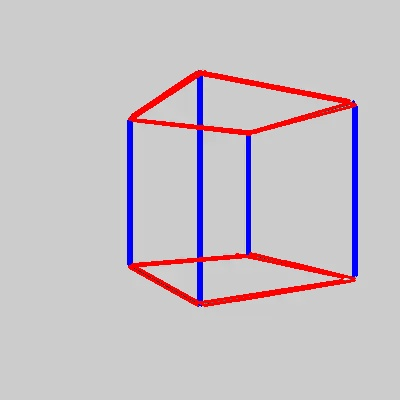
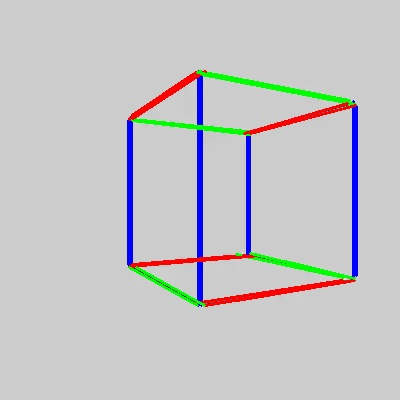
switch direction - read 1 paragrapgh of the paper carefully

diff --git a/kuribayashi2019.py b/kuribayashi2019.py
@@ -24,37 +24,29 @@ cv2.imwrite('3_gaussian_blur.jpg', gray)
 edges_img = cv2.Canny(gray, 50, 150, apertureSize=3)
 cv2.imwrite('4_edges_detected.jpg', edges_img)
 
+# Detect lines using Hough Transform
 lines = cv2.HoughLinesP(edges_img, 1, np.pi / 180, threshold=20, minLineLength=30, maxLineGap=10)
 
-# Define a function to calculate the angle of a line segment
 def line_angle(line):
     x1, y1, x2, y2 = line[0]
-    return np.arctan2(y2 - y1, x2 - x1) * 180.0 / np.pi
+    angle = np.arctan2(y2 - y1, x2 - x1) * 180 / np.pi
+    return angle
+# Calculate the angle of each line segment
+angles = np.array([line_angle(line) for line in lines])
 
-# Cluster lines based on the angle
-if lines is not None:
-    angles = np.array([line_angle(line) for line in lines]).reshape(-1, 1)
-    # Hierarchical clustering
-    clustering = AgglomerativeClustering(n_clusters=2)
-    print("here")
-    labels = clustering.fit_predict(angles)
+# Normalize angles to [0, 180) degrees to treat opposite directions the same
+normalized_angles = np.abs(angles) % 180
 
-    colors = [(0, 0, 255), (255, 0, 0)]  # Red and Blue
+# Cluster based on normalized angles
+clustering = AgglomerativeClustering(n_clusters=3)  # Assuming 3 main directions: width, height, depth
+labels = clustering.fit_predict(normalized_angles.reshape(-1, 1))
 
-    # Draw lines on the image with color based on their cluster
-    for line, label in zip(lines, labels):
-        x1, y1, x2, y2 = line[0]
-        color = colors[label % len(colors)]  # Choose color based on label
+# Map labels to colors (fixed colors for clarity)
+colors = [(0, 0, 255), (255, 0, 0), (0, 255, 0)]  # Red, Blue, Green for width, height, depth
 
-        cv2.line(original_img, (x1, y1), (x2, y2), color, 2)
+# Draw lines on the image with colors based on their cluster
+for line, label in zip(lines, labels):
+    x1, y1, x2, y2 = line[0]
+    cv2.line(original_img, (x1, y1), (x2, y2), colors[label], 2)
 
-cv2.imwrite('6_lines_clustered.jpg', original_img)
-
-# Step 5: Use Hough Transform to detect lines
-lines = cv2.HoughLinesP(edges_img, 1, np.pi / 180, threshold=20, minLineLength=30, maxLineGap=10)
-
-# Step 6: Draw lines on the original image
-if lines is not None:
-    for line in lines:
-        x1, y1, x2, y2 = line[0]
-        cv2.line(original_img, (x1, y1), (x2, y2), (255, 0, 0), 2)
+cv2.imwrite('6_lines_first_clustered.jpg', original_img)
